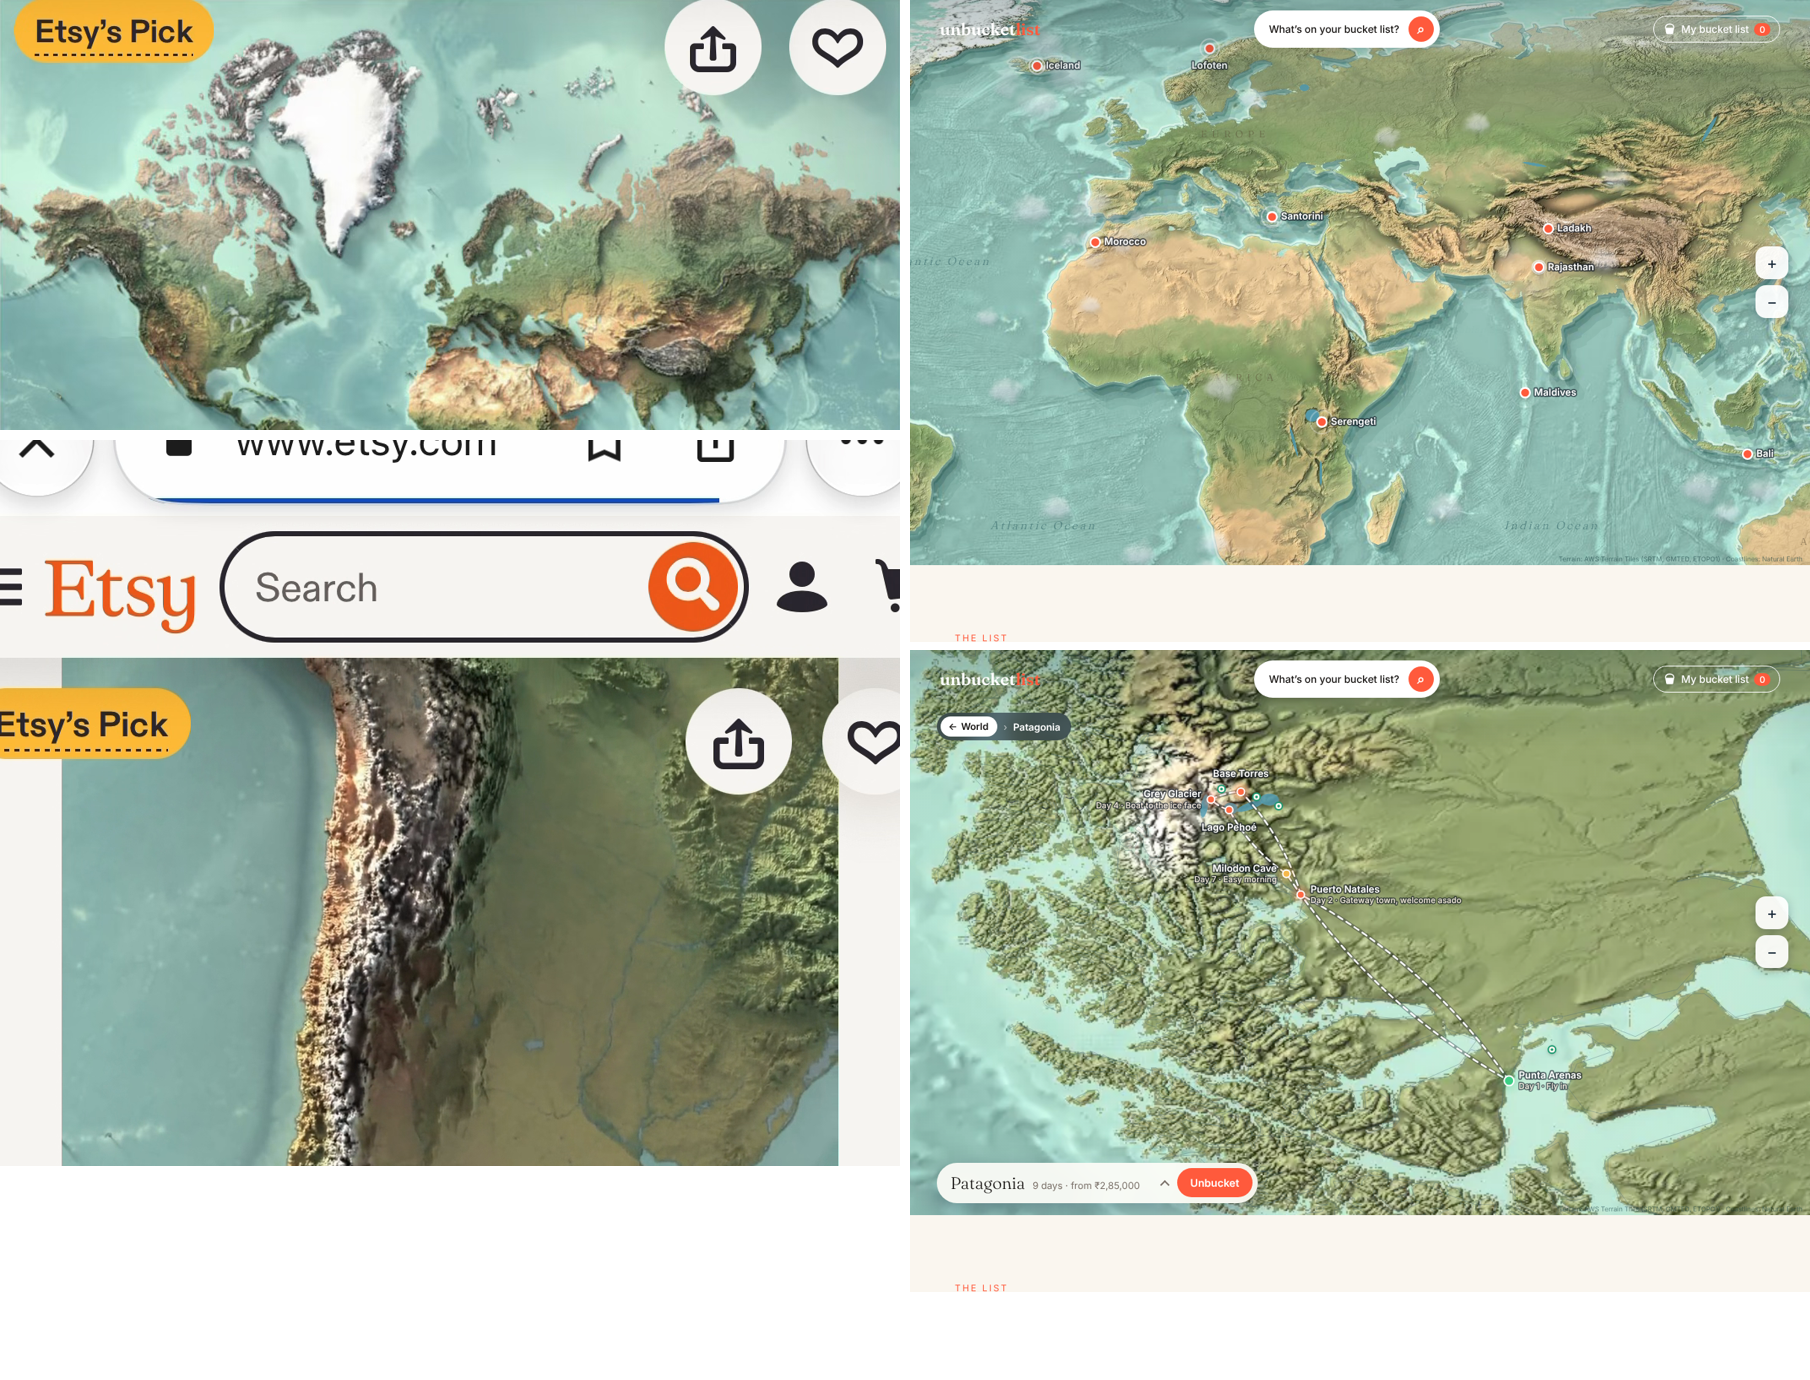
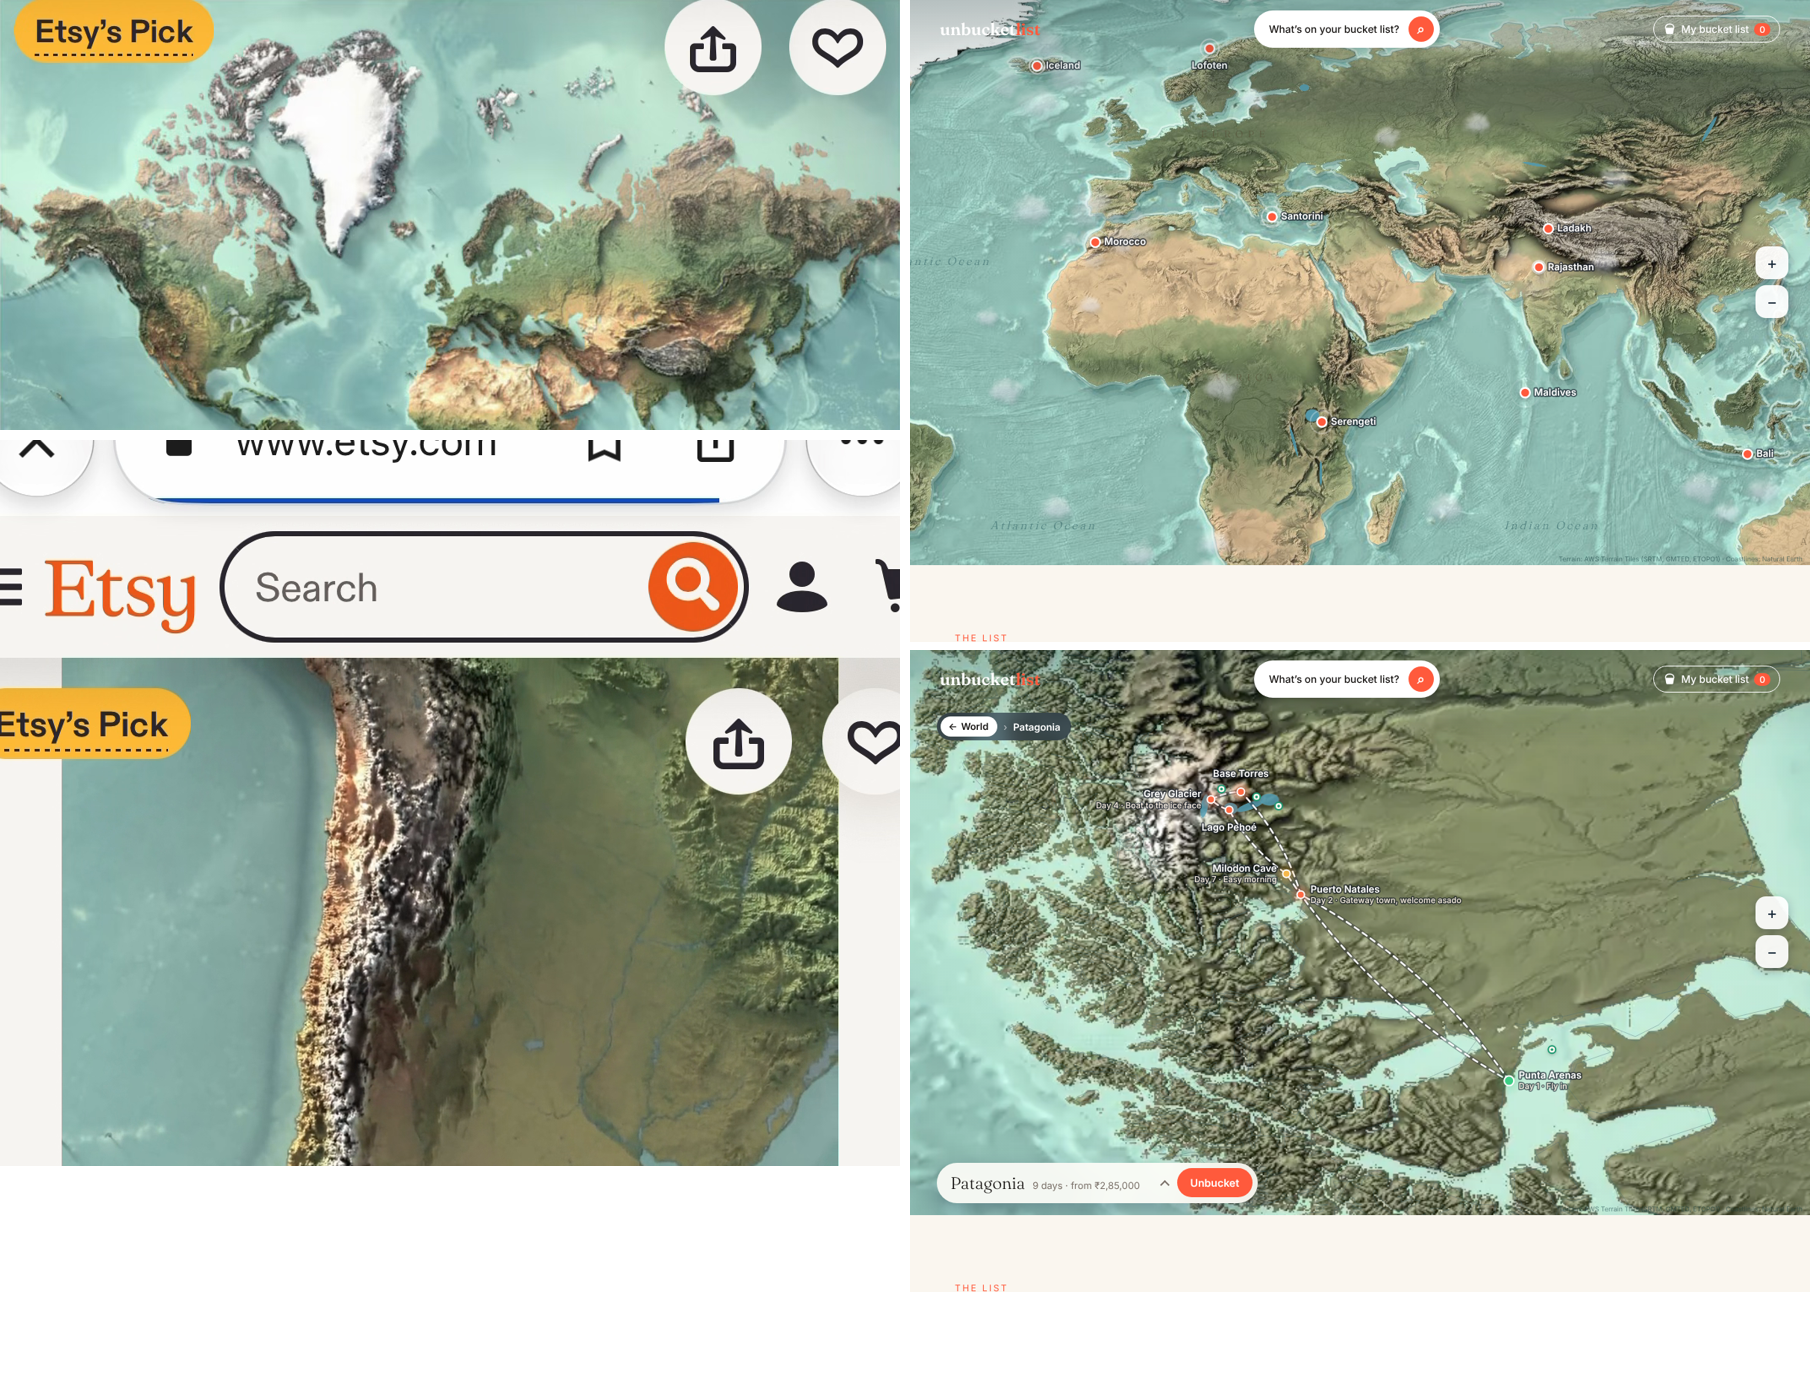
Terrain rendered like a 3D model: cast shadows, valley shade, calibrated colours
Measured the client's reference against our map at 21 places (colour
difference in Lab). The sea already matched; land was too light and too
saturated. Now:
- mountains cast real shadows across the land and onto the sea
  (ray-marched from the north-west sun), valleys sit in shade
- forests and the far north darker and muted, plateaus grey-taupe
- Greenland and Antarctica white (the elevation data holds bedrock under
  the ice, so the ice surface is rebuilt from the coastline)
Land colour difference to the reference down from 19 to 16 on average.

Claude-Session: https://claude.ai/code/session_01KVdNw979WxCLGLb6ytawBs

diff --git a/public/index.html b/public/index.html
@@ -7,7 +7,7 @@
 <meta name="description" content="We help you unbucket your bucket list. Zoom out to zoom in: pick a place, see where to go, what to taste and what to take away, then go.">
 <link rel="preconnect" href="https://fonts.googleapis.com">
 <link href="https://fonts.googleapis.com/css2?family=Fraunces:opsz,wght@9..144,300;9..144,600&family=Inter:wght@400;500;600&display=swap" rel="stylesheet">
-<link rel="stylesheet" href="styles.css?v=18">
+<link rel="stylesheet" href="styles.css?v=19">
 </head>
 <body>
 
@@ -80,13 +80,13 @@
   <div class="sheet" id="sheet" role="dialog" aria-modal="true"></div>
 </aside>
 
-<script src="facts.js?v=18"></script>
-<script src="media/photos.js?v=18"></script>
-<script src="offers.js?v=18"></script>
-<script src="routes.js?v=18"></script>
-<script src="wildlife.js?v=18"></script>
-<script src="bucket.js?v=18"></script>
-<script src="app.js?v=18"></script>
-<script src="map.js?v=18"></script>
+<script src="facts.js?v=19"></script>
+<script src="media/photos.js?v=19"></script>
+<script src="offers.js?v=19"></script>
+<script src="routes.js?v=19"></script>
+<script src="wildlife.js?v=19"></script>
+<script src="bucket.js?v=19"></script>
+<script src="app.js?v=19"></script>
+<script src="map.js?v=19"></script>
 </body>
 </html>

diff --git a/public/map.js b/public/map.js
@@ -88,7 +88,7 @@ const IMG={ocean:null,land1:null,land3:null,crop:{}};let RELIEF={};
 /* Map colours. One look ships at a time; its relief images live in data/looks/<dir>/ (build with tools/build_relief.py <dir>).
    satellite: natural, muted land on one flat, calm ocean colour (the client's reference: a "satellite map, flat ocean" poster).
    vivid:     jade, saffron and ultramarine with a depth-shaded sea. To switch back: LOOK=LOOKS.vivid and restore data/looks/vivid from git. */
-const LOOKS={relief:{dir:'relief',flat:false,calm:true,sun:'255,248,232',sunA:.1,vig:'30,80,78',vigA:.07,sea:['#c4eedb','#a6d5c9'],shade:'14,70,66',shadeK:1.7,shadeLen:1.7,shimmer:.07,
+const LOOKS={relief:{dir:'relief',flat:false,calm:true,sun:'255,248,232',sunA:.1,vig:'30,80,78',vigA:.07,sea:['#c4eedb','#a6d5c9'],shade:'14,70,66',shadeK:1.2,shadeLen:1.4,shimmer:.07,
                coast:'rgba(236,255,247,.5)',label:'rgba(58,108,110,.72)',land:'rgba(78,62,40,.5)'},
              satellite:{dir:'satellite',flat:true,sun:'255,236,205',sunA:.3,vig:'4,12,26',sea:['#1c3a54','#1c3a54'],shade:'0,6,18',shimmer:.1},
              vivid:{dir:'vivid',flat:false,sun:'255,214,140',sunA:.55,vig:'10,30,90',sea:['#36dcd6','#0f78c4'],shade:'6,28,80',shimmer:.22}};

diff --git a/tools/build_relief.py b/tools/build_relief.py
@@ -83,9 +83,10 @@ LOOKS = {
                warm='#fff6e0', cool='#2f4a52', sea=['#d7ebe3', '#c3e0db', '#a9d1d0', '#8fbfc4', '#7aafb8'], sat=1.08, lift=.02, tint=.5, sea_relief=.5),
  # relief: the client's reference (Kuzeyoku relief wall maps): seafoam sea with visible sea-floor relief, olive/sage lowlands,
  # sand deserts, tan uplands, taupe plateaus, white ice; crisp, strong hillshade with warm light and brown-olive shade
- 'relief': dict(mode='relief', dry='#e2c597', mid='#a9b07f', wet='#7d9a64', boreal='#8a9470', dune='#ead0a2', rock='#c59c6c', high='#9e8571',
-                peak='#cdc4b9', snow='#ffffff', warm='#fff2d6', cool='#3a3426', sea=['#c4eedb', '#b3e3d3', '#a6d5c9', '#99c9be', '#8ebeb4'],
-                sat=1.08, lift=0, tint=.35, sea_relief=.2, exag_world=24, exag_crop=2.6, local=.5, world_z=5, world_sizes=[(1024, 1024), (4096, 3072)]),
+ 'relief': dict(mode='relief', dry='#e0c193', mid='#a3ab7c', wet='#6f8559', boreal='#5f6a52', dune='#e8cc9c', rock='#a3866a', high='#908b80',
+                peak='#bdb8b0', snow='#ffffff', warm='#fff4e0', cool='#2e2c24', sea=['#c4eedb', '#b3e3d3', '#a6d5c9', '#99c9be', '#8ebeb4'],
+                sat=.94, lift=0, tint=.35, sea_relief=.2, exag_world=24, exag_crop=2.6, local=.45, world_z=5, world_sizes=[(1024, 1024), (4096, 3072)],
+                cast=.5, cast_sea=.32, ao=.38, sun_alt=24),
  # golden hour: emerald and honey, coral light, plum shadows, turquoise lagoons, sapphire sea
  'golden': dict(dry='#f3cf86', mid='#c6d06f', wet='#3f9a5b', boreal='#2f7a5a', dune='#f0b971', rock='#c98d63', high='#e9bf9f', snow='#fff7ee',
                 warm='#ffcf8f', cool='#5b3f7d', sea=['#a8efe2', '#69d9d3', '#33b6c9', '#2584b4', '#1b5694'], sat=1.28, lift=.03, tint=.4),
@@ -100,8 +101,38 @@ PAL = LOOKS['natural']
 DEST_GREEN = {'ladakh': .08, 'rajasthan': .1, 'morocco': .15, 'santorini': .2, 'maldives': .3, 'iceland': .35, 'patagonia': .4,
               'serengeti': .45, 'lofoten': .5, 'peru': .55, 'newzealand': .7, 'kyoto': .85, 'bali': .95}
 
+_LANDMASK = None
+def landmask(lon, lat):
+    # Natural Earth coastlines rasterised onto this grid (union of rings)
+    global _LANDMASK
+    if _LANDMASK is None:
+        rs = json.load(open('/home/user/Unbucketlist.co/public/data/land-50.json')); _LANDMASK = []
+        for a in rs:
+            x = y = 0; pts = []; off = 0; px = None
+            for i in range(0, len(a), 2):                     # unwrap rings that cross the date line
+                x += a[i]; y += a[i + 1]; X = x / 100 + off
+                if px is not None and X - px > 180: off -= 360; X -= 360
+                elif px is not None and X - px < -180: off += 360; X += 360
+                px = X; pts.append((X, y / 100))
+            for sh in (0, -360, 360): _LANDMASK.append([(p_[0] + sh, p_[1]) for p_ in pts])
+    H, W = lon.shape; x0, x1, y0, y1 = lon[0, 0], lon[0, -1], lat[0, 0], lat[-1, 0]
+    from PIL import ImageDraw
+    im = Image.new('L', (W, H), 0); d = ImageDraw.Draw(im)
+    for pts in _LANDMASK:
+        xs = [p[0] for p in pts]; ys = [p[1] for p in pts]
+        if max(xs) < min(x0, x1) or min(xs) > max(x0, x1) or max(ys) < min(y0, y1) or min(ys) > max(y0, y1): continue
+        d.polygon([((px - x0) / (x1 - x0) * (W - 1), (py - y0) / (y1 - y0) * (H - 1)) for px, py in pts], fill=255)
+    return np.asarray(im) > 127
+
 def colourise(elev, lon, lat, exag, palette=None, patches=()):
     H, W = elev.shape
+    if PAL.get('mode') == 'relief':
+        # Greenland (its west and east coasts, so Baffin Island, Quebec and Iceland stay out) and Antarctica
+        west = np.where(lat < 74, -57, np.where(lat < 77, -68, -74)); east = np.where(lat < 68, -34, np.where(lat < 77, -17, -10))
+        ice = ((lat > 59.5) & (lon > west) & (lon < east)) | (lat < -60)
+        if ice.any():
+            mask = landmask(lon, lat) & ice
+            elev = np.where(mask, np.maximum(elev, 900 + 2200 * sstep(0, 1, smooth(mask.astype(np.float32), max(3, W // 200)))), elev)
     # region colours, painted the same way as the map's soft regions
     N = noise(lon, lat)
     # greenness from a simple climate model: wet tropics, dry subtropical belts, green temperate lands, tundra
@@ -126,7 +157,7 @@ def colourise(elev, lon, lat, exag, palette=None, patches=()):
     c = mix(c, boreal, sstep(50, 60, al) * (1 - sstep(64, 70, al)) * sstep(.5, .8, G) * .7)
     for col, w in special: c = mix(c, hexrgb(col), w * .9)
     if PAL.get('mode') == 'relief':  # olive-sage greens, darker in the boreal north and wet tropics
-        c = mix(c, hexrgb(PAL['boreal']), (sstep(50, 64, al) * (1 - sstep(64, 72, al)) * .5 + sstep(.85, 1, G) * .5) * sstep(.45, .8, G) * (.4 + .6 * N))
+        c = mix(c, hexrgb(PAL['boreal']), (sstep(48, 60, al) * (1 - sstep(66, 72, al)) * .75 + sstep(.85, 1, G) * .5) * sstep(.4, .75, G) * (.55 + .45 * N))
     c = c * (0.94 + 0.12 * N)[..., None]            # gentle mottling across plains
     if palette is not None:  # each place leans to its own character (arid Ladakh, lush Bali), in this look's colours
         pc = hexrgb(PAL['dry']) * (1 - palette) + hexrgb(PAL['wet']) * palette
@@ -168,6 +199,24 @@ def colourise(elev, lon, lat, exag, palette=None, patches=()):
     lr = elev - blur; sc = np.percentile(np.abs(lr[land]), 92) + 1 if land.any() else 1
     k = k + PAL.get('local', .32) * np.tanh(lr / sc)
     kk = np.clip(k, -1, 1)
+    CAST = np.zeros_like(elev, dtype=np.float32); AO = np.zeros_like(CAST)
+    if PAL.get('cast'):
+        hp = np.maximum(elev, 0).astype(np.float32) * exag / max(dy if np.isscalar(dy) else float(np.mean(dy)), 1)   # height in pixel units
+        drop = math.sqrt(2) * math.tan(math.radians(PAL.get('sun_alt', 24)))
+        K = int(min(110, max(4, hp.max() / drop)))
+        pad = np.pad(hp, ((K, 0), (K, 0)), mode='edge'); best = np.full_like(hp, -1e9)
+        step = 1
+        k = 1
+        while k <= K:                                   # the sun is in the north-west: look up-left for anything taller
+            best = np.maximum(best, pad[K - k:K - k + H, K - k:K - k + W] - k * drop)
+            k += step; step = 1 if k < 24 else 2
+        CAST = smooth(sstep(0, 2.5, best - hp).astype(np.float32), 1)
+    if PAL.get('ao'):
+        e0 = np.maximum(elev, 0).astype(np.float32) * exag
+        for r_, w_ in ((2, .45), (6, .35), (16, .2)):
+            d_ = smooth(e0, max(1, int(r_ * W / 4096 * (4 if W < 2000 else 1)))) - e0
+            sc_ = np.percentile(np.abs(d_[land]), 90) + 1 if land.any() else 1
+            AO += w_ * np.clip(d_ / sc_, 0, 1)
     if PAL.get('mode') == 'relief': kk = kk * (1 - .6 * sstep(.5, 1, SNOW))   # ice sheets stay smooth and bright
     if PAL.get('mode') == 'relief':
         c = c * (1 + kk[..., None] * np.where(land, np.where(kk > 0, .38, 1.05), .3)[..., None])
@@ -175,6 +224,7 @@ def colourise(elev, lon, lat, exag, palette=None, patches=()):
         c = c * (1 + kk[..., None] * np.where(land, np.where(kk > 0, .45, .8), .3)[..., None])
     c = mix(c, hexrgb(PAL['warm']), np.clip(kk, 0, 1) * np.where(land, .28, 0))        # warm light
     c = mix(c, hexrgb(PAL['cool']), np.clip(-kk, 0, 1) * np.where(land, .3, .1))       # cool shade
+    c = c * (1 - PAL.get('cast', 0) * CAST)[..., None] * (1 - PAL.get('ao', 0) * AO * land)[..., None]
     g = c.mean(axis=2, keepdims=True); c = g + (c - g) * PAL['sat']                          # a touch richer
     # sea floor: turquoise shelves, deep blue ocean
     d = np.clip(-elev, 0, None)
@@ -183,6 +233,7 @@ def colourise(elev, lon, lat, exag, palette=None, patches=()):
         sea = mix(sea, hexrgb(col), sstep(0, lim, d))
     seac = sea * (1 + kk[..., None] * PAL.get('sea_relief', .25))
     if PAL.get('flat_sea'): seac = np.broadcast_to(hexrgb(PAL['sea'][0]), c.shape)
+    seac = seac * (1 - PAL.get('cast_sea', 0) * CAST)[..., None]   # the land throws its shadow onto the sea
     out = np.where(land[..., None], c, seac)
     out = out + (255 - out) * PAL['lift']  # pastel looks are lighter overall
     return np.clip(out, 0, 255).astype(np.uint8), land
